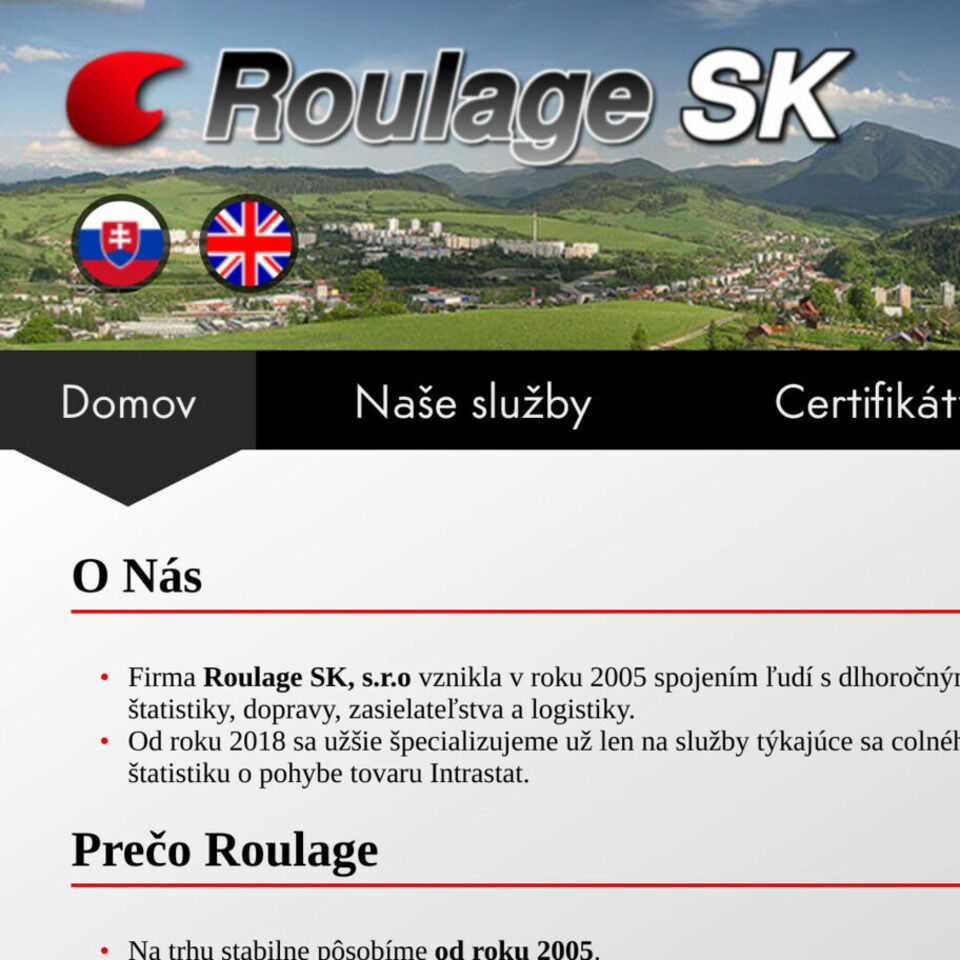
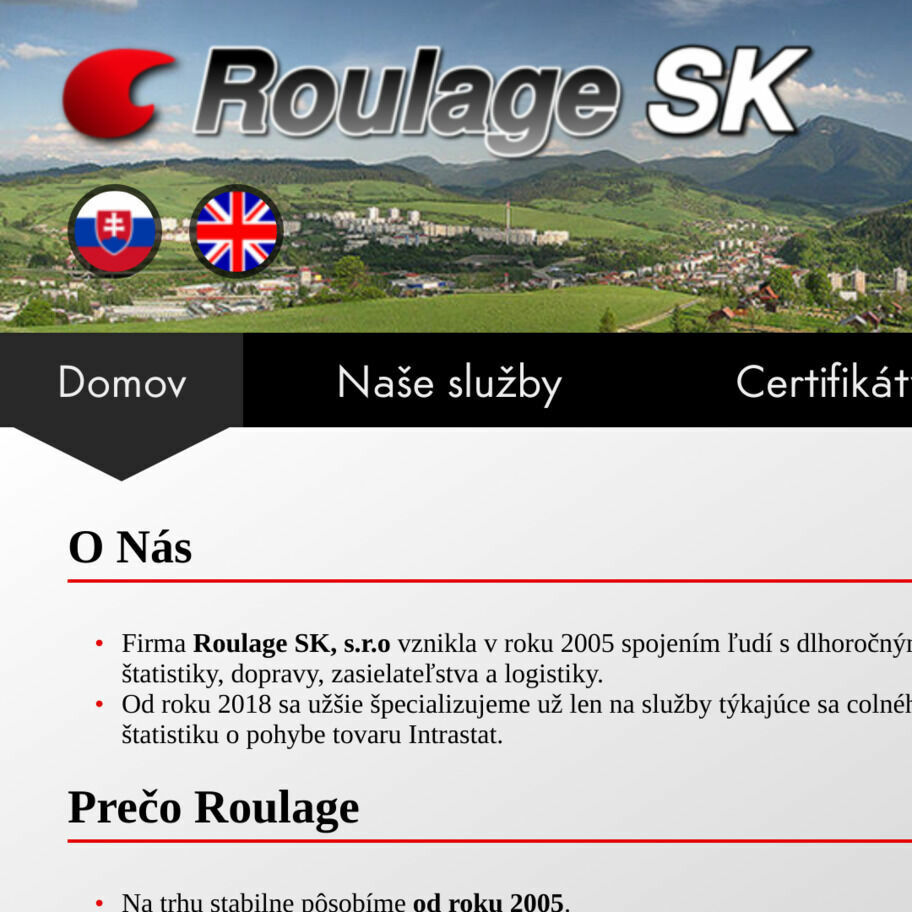
sekcia portfolio obrazkyx 3

diff --git a/app/assets/stylesheets/frontend/controllers/portfolio/_show.css.scss b/app/assets/stylesheets/frontend/controllers/portfolio/_show.css.scss
@@ -1,37 +1,34 @@
+/*& {
+    border-top: 0.5em solid red;
+}*/
+
 section#show_work {
     padding: 0;
-    //width:100%;
-/*
-    figure {
-        position: relative;
-        //width: 100%;
+    overflow-x: visible;
 
-        picture {
-            display: block;
-            max-width: 100%;
-
-            img {
-                //display: table;
-                //margin: 0 auto;
-                //padding-top: 3%;
-                //max-width: 100%;
-                max-width: 100%;
-                max-height: 100%;
-                display: block;
-            }
-        }
-    }
-*/
     article {
         padding: 0 3%;
 
         h2 {
             position: relative;
-            bottom: 0.5em;
-            //margin-left: 0.5em;
-            padding: 0.125em;
-            background-color: $black;
             display: inline-block;
+            height: 1em;
+
+            a {
+                display: block;
+                padding:0.125em;
+                position: absolute;
+                bottom:0.5em;
+            }
+        }
+
+        h3 {
+            font-size: 1.5em;
+            margin-bottom: 0.75em;
+        }
+
+        p {
+            font-size: 1.25em;
         }
     }
 }

diff --git a/app/assets/stylesheets/frontend/controllers/portfolio/_header.css.scss b/app/assets/stylesheets/frontend/controllers/portfolio/_header.css.scss
@@ -213,14 +213,37 @@ nav {
     }
 }
 
+figure {
+    //background-color: $space_background;
+    background-color: green;
 
-picture {
-    max-width: 100%;
-    display: block;
+    &.desktop {
+        padding-top:2em;
+        padding-left:2em;
+        padding-right: 2em;
 
-    img {
-        display: block;
+        picture {
+            border: 1.5em solid black;
+            border-top-left-radius: 1.5em;
+            border-top-right-radius: 1.5em;
+            border-bottom-width: 0;
+            /*padding-top:2em;
+            padding-left:2em;
+            padding-right: 2em;*/
+        }
+    }
+
+    picture {
         max-width: 100%;
-        max-height:100%;
+        display: table;
+        margin: 0 auto;
+
+        img {
+            display: block;
+            max-width: 100%;
+            max-height:100%;
+            //margin: 0 auto;
+            //border: 1em solid black;
+        }
     }
 }

diff --git a/app/assets/stylesheets/_VARS/_colors.css.scss b/app/assets/stylesheets/_VARS/_colors.css.scss
@@ -42,6 +42,9 @@ $solar_panel_item_txt_hover:#fff;
 $solar_panel_item_txt:#ddd;
 $solar_panel_holder_bg: $rocket_parts_1_bg;
 
+// portfolio - ukazka
+$space_background: #000060;
+
 // blog - top menu
 $rocket_2_bg: #ddd;
 $rocket_2_engine: #444;

diff --git a/app/assets/stylesheets/frontend/controllers/portfolio.css.scss b/app/assets/stylesheets/frontend/controllers/portfolio.css.scss
@@ -2,7 +2,7 @@ main {
     display: flex;
     flex-direction: column;
 
-    section#portfolio {
+    section#portfolio, section#show_work {
         flex: 1 0 auto;
 
         article {

diff --git a/app/uploaders/base_uploader.rb b/app/uploaders/base_uploader.rb
@@ -7,7 +7,16 @@ class BaseUploader < CarrierWave::Uploader::Base
   require 'mimemagic'
   require 'rack/mime'
 
+  class << self
+    attr_accessor :sizes
+    attr_accessor :original_width
+    attr_accessor :original_height
+  end
+
   storage :file
+
+  #process :store_dimensions
+  #process :calculate_retina_sizes_from_source
 
   def store_dir
     "uploads/#{model.class.to_s.underscore}/#{mounted_as}/#{model.id}"
@@ -15,10 +24,6 @@ class BaseUploader < CarrierWave::Uploader::Base
 
   def extension_whitelist
     %w(jpg jpeg gif png)
-  end
-
-  class << self
-    attr_accessor :sizes
   end
 
   def filename
@@ -31,7 +36,8 @@ class BaseUploader < CarrierWave::Uploader::Base
   def self.create_sizes(
       sizes: {},
       namespace: "",
-      process_method: :resize_to_fit
+      process_method: :resize_to_limit,
+      only_retina_mode: false
       )
 
       meno = namespace.blank? ? "sizes" : "#{namespace.to_s}_sizes"
@@ -74,6 +80,23 @@ class BaseUploader < CarrierWave::Uploader::Base
       #process optimize: [
       #  { jpegtran: true }
       #]
+  end
+
+  def store_dimensions
+    if file && model
+      @original_width, @original_height = ::MiniMagick::Image.open(file.file)[:dimensions]
+    end
+    #Rails.logger.info "----------------------"
+   # Rails.logger.info @original_width
+    #Rails.logger.info "----------------------"
+    #Rails.logger.info "--------------------------------"
+    #Rails.logger.info a
+    #Rails.logger.info "-----------------------------"
+  end
+
+  def self.divide_and_round_to_even(num, divider)
+    tempres = num.to_f/divider
+    return tempres.floor.even? ? tempres.floor : tempres.ceil
   end
 
 end

diff --git a/app/uploaders/portfolio_title_uploader.rb b/app/uploaders/portfolio_title_uploader.rb
@@ -1,12 +1,30 @@
 class PortfolioTitleUploader < BaseUploader
 
-  create_sizes(
+    #process :resize_to_fit_by_percentage
+
+begin
+    create_sizes(
       sizes: {
         "1x" => [1366, 768],
         "2x" => [2732, 1536],
         "3x" => [4098, 2304]
       },
-      namespace: "bg"
-  )
+      namespace: "bg"#,
+      #only_retina_mode: true
+    )
+end
 
+
+
+    #calculate_retina_sizes_from_source()
+=begin
+    create_sizes(
+      sizes: {
+        "1x" => @retina_sizes["1x"],
+        "2x" => @retina_sizes["2x"],
+        "3x" => @retina_sizes["3x"]
+      },
+      namespace: "bg"
+    )
+=end
 end

diff --git a/app/controllers/portfolios_controller.rb b/app/controllers/portfolios_controller.rb
@@ -9,7 +9,7 @@ class PortfoliosController < ApplicationController
 
     ## override
     def show
-        @title_bgs = @portfolio.portfolio_titlebgs
+        #@title_bgs = @portfolio.portfolio_titlebgs
     end
 
     def add_screenshots
@@ -24,7 +24,7 @@ class PortfoliosController < ApplicationController
 
     def _choose_layout
         case action_name
-        when "index"
+        when "index", "show"
             return "base"
         when "new", "create", "edit", "update"
             return "admin"

diff --git a/config/initializers/carrierwave.rb b/config/initializers/carrierwave.rb
@@ -93,6 +93,22 @@ module CarrierWave
       end
     end
 
+    def retina_resize
+      manipulate! do |img|
+
+          #return img unless img.mime_type.match /image\/jpeg/
+          #img.format "jpeg"
+          #img.strip
+          #img.combine_options do |c|
+              #c.resize_to_fit(250,250)
+              #c.quality "80"
+              #c.depth "8"
+              #c.interlace "plane"
+          end
+          #img
+      end
+    end
+
   end
 
 =begin

diff --git a/app/helpers/portfolio_helper.rb b/app/helpers/portfolio_helper.rb
@@ -37,4 +37,8 @@ module PortfolioHelper
         return p.portfolio_screenshot.screenshot.send(size).url.sub(/_orig\.png$/, '.jpg')
     end
 
+    def imageHeaderUrl(size)
+        return @portfolio.portfolio_titlebgs.first.title_bg.send(size).url.sub(/_orig\.png$/, '.jpg')
+    end
+
 end
